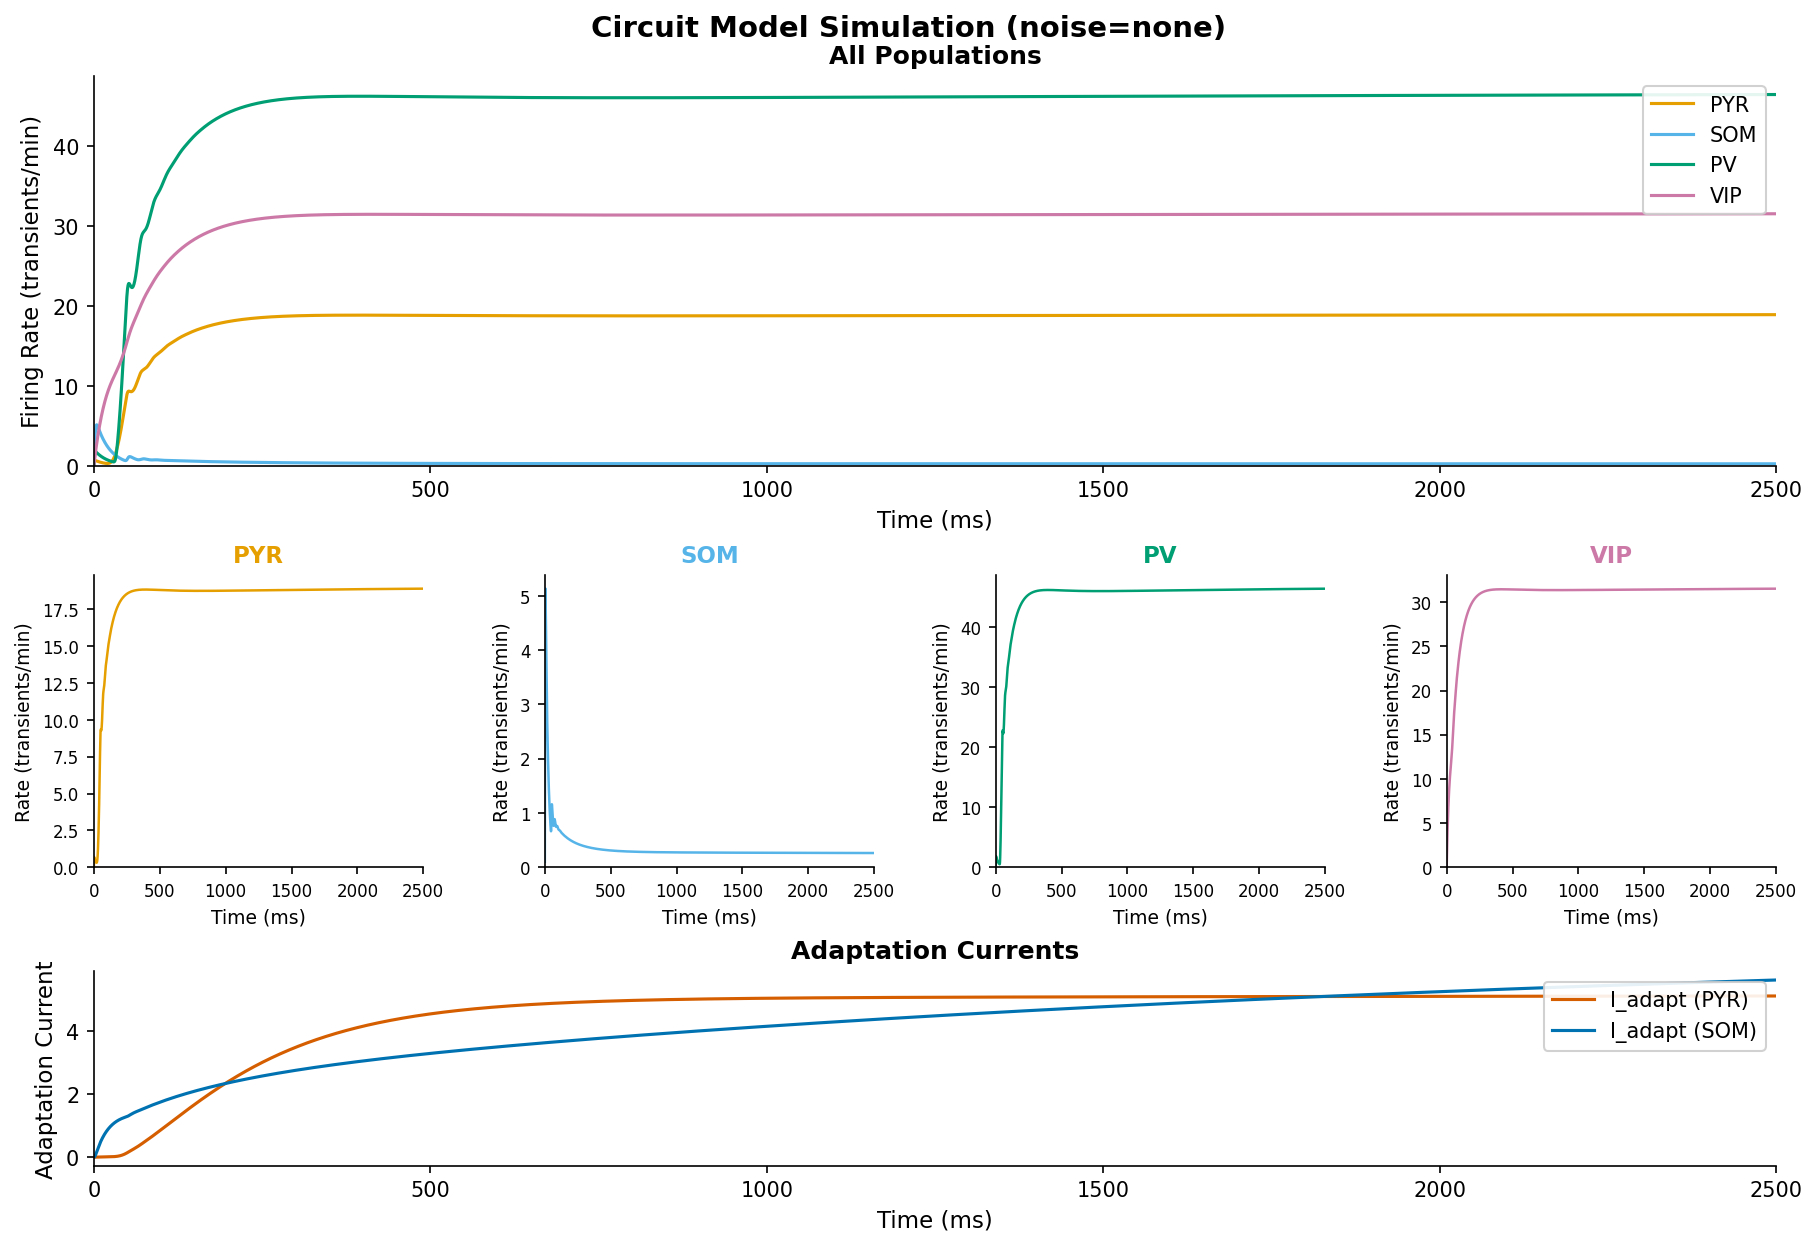
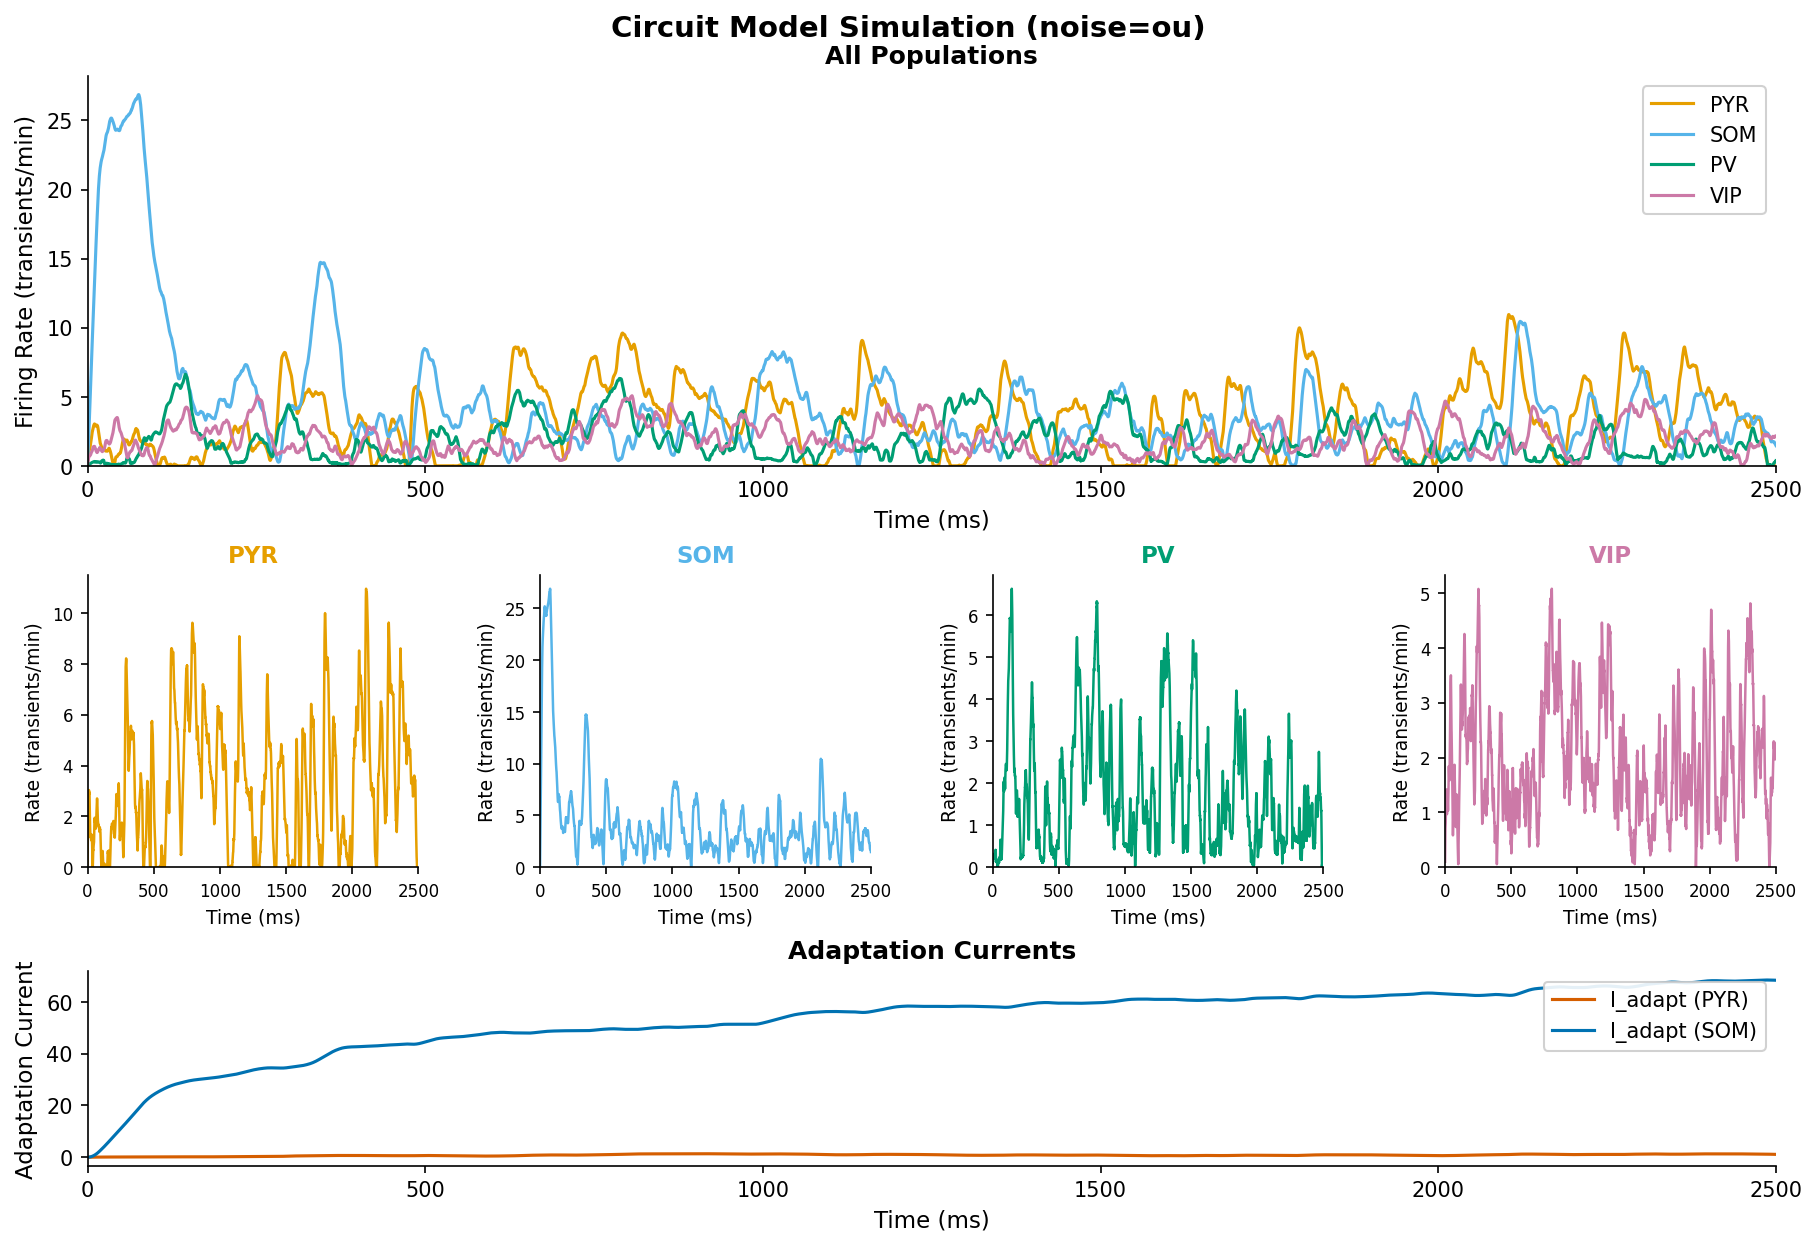
sync

diff --git a/circuit_model/cli.py b/circuit_model/cli.py
@@ -333,21 +333,29 @@ def main() -> None:
         formatter_class=argparse.RawDescriptionHelpFormatter,
         epilog="""
 Examples:
-  # Run simulation with default parameters and plot
-  python -m circuit_model run
+    # Run simulation with default parameters and plot
+    python -m circuit_model run
 
-  # Run with custom parameters
-  python -m circuit_model run --params_json my_params.json --T_ms 5000
+    # Run with custom parameters
+    python -m circuit_model run --params_json my_params.json --T_ms 5000
 
+<<<<<<< Updated upstream
   # Run with noise
   python -m circuit_model run --noise_type ou
+=======
+    # Run with noise
+    python -m circuit_model run --noise_type ou --tau_noise_ms 10
+>>>>>>> Stashed changes
 
-  # Optimize parameters to match target rates
-  python -m circuit_model optimize --target_pyr 5 --target_som 10 --target_pv 15 --target_vip 8
+    # Optimize parameters to match target rates
+    python -m circuit_model optimize --target_pyr 5 --target_som 10 --target_pv 15 --target_vip 8
 
-  # Optimize with frozen parameters
-  python -m circuit_model optimize --target_pyr 5 --target_som 10 --target_pv 15 --target_vip 8 \\
-      --freeze "tau_s,g_gaba_base" --show_params
+    # Optimize with frozen parameters
+    python -m circuit_model optimize --target_pyr 5 --target_som 10 --target_pv 15 --target_vip 8 \\
+        --freeze "tau_s,g_gaba_base" --show_params
+
+    # Run batch study across conditions
+    python -m circuit_model study --n_runs 100 --noise_type white --tau_noise_ms 5
 """
     )
 
@@ -477,11 +485,14 @@ Examples:
     study_parser.add_argument("--no_show", action="store_true",
                               help="Don't display the plot")
 
+<<<<<<< Updated upstream
     # Receptor activation mode
     study_parser.add_argument("--fixed_receptor_values", action="store_true",
                               help="Use fixed mean receptor values instead of sampling "
                                    "from distributions (default: sample from distributions)")
 
+=======
+>>>>>>> Stashed changes
     # Simulation parameters
     study_parser.add_argument("--T_ms", type=float, default=2500.0,
                               help="Simulation duration (ms)")
@@ -496,6 +507,14 @@ Examples:
     study_parser.add_argument("--params_json", type=str, default="",
                               help="Load base parameters from JSON file")
 
+<<<<<<< Updated upstream
+=======
+    # Receptor activation mode
+    study_parser.add_argument("--fixed_receptor_values", action="store_true",
+                              help="Use fixed mean receptor values instead of sampling "
+                                   "from distributions (default: sample from distributions)")
+
+>>>>>>> Stashed changes
     # Statistics parameters
     study_parser.add_argument("--burn_in_ms", type=float, default=1800.0,
                               help="Burn-in period for statistics (ms)")

diff --git a/circuit_model/__init__.py b/circuit_model/__init__.py
@@ -48,6 +48,18 @@ from .plotting import (
     POPULATION_NAMES,
     POPULATION_COLORS,
 )
+from .study import (
+    ExperimentalCondition,
+    STUDY_CONDITIONS,
+    CONDITION_ORDER,
+    StudyConfig,
+    StudyResults,
+    apply_condition,
+    run_single_simulation,
+    run_condition_batch,
+    run_study,
+    plot_study_boxplots,
+)
 from .cli import main
 
 __all__ = [
@@ -88,6 +100,17 @@ __all__ = [
     "print_simulation_summary",
     "POPULATION_NAMES",
     "POPULATION_COLORS",
+    # Study
+    "ExperimentalCondition",
+    "STUDY_CONDITIONS",
+    "CONDITION_ORDER",
+    "StudyConfig",
+    "StudyResults",
+    "apply_condition",
+    "run_single_simulation",
+    "run_condition_batch",
+    "run_study",
+    "plot_study_boxplots",
     # CLI
     "main",
 ]

diff --git a/circuit_model.py b/circuit_model.py
@@ -18,6 +18,12 @@ For command-line usage:
 
     # Run optimization
     python -m circuit_model optimize --target_pyr 5 --target_som 10 --target_pv 15 --target_vip 8
+
+    # Run study
+    python -m circuit_model study --n_runs 200 --noise_type white --tau_noise_ms 10
+
+    # Run ring
+    
 """
 
 # Re-export everything from the package for backward compatibility

diff --git a/circuit_model/simulation.py b/circuit_model/simulation.py
@@ -93,7 +93,10 @@ def simulate_circuit(
             raise ValueError("I_adapt0 must have shape (2,)")
         I_adapt[0] = I_adapt0
 
-    rng = np.random.default_rng(seed)
+    if seed is not None:
+        rng = np.random.default_rng(seed)
+    else:
+        rng = np.random.default_rng()
     xi_state = np.zeros(4, dtype=float)
 
     ggaba = params.g_gaba()